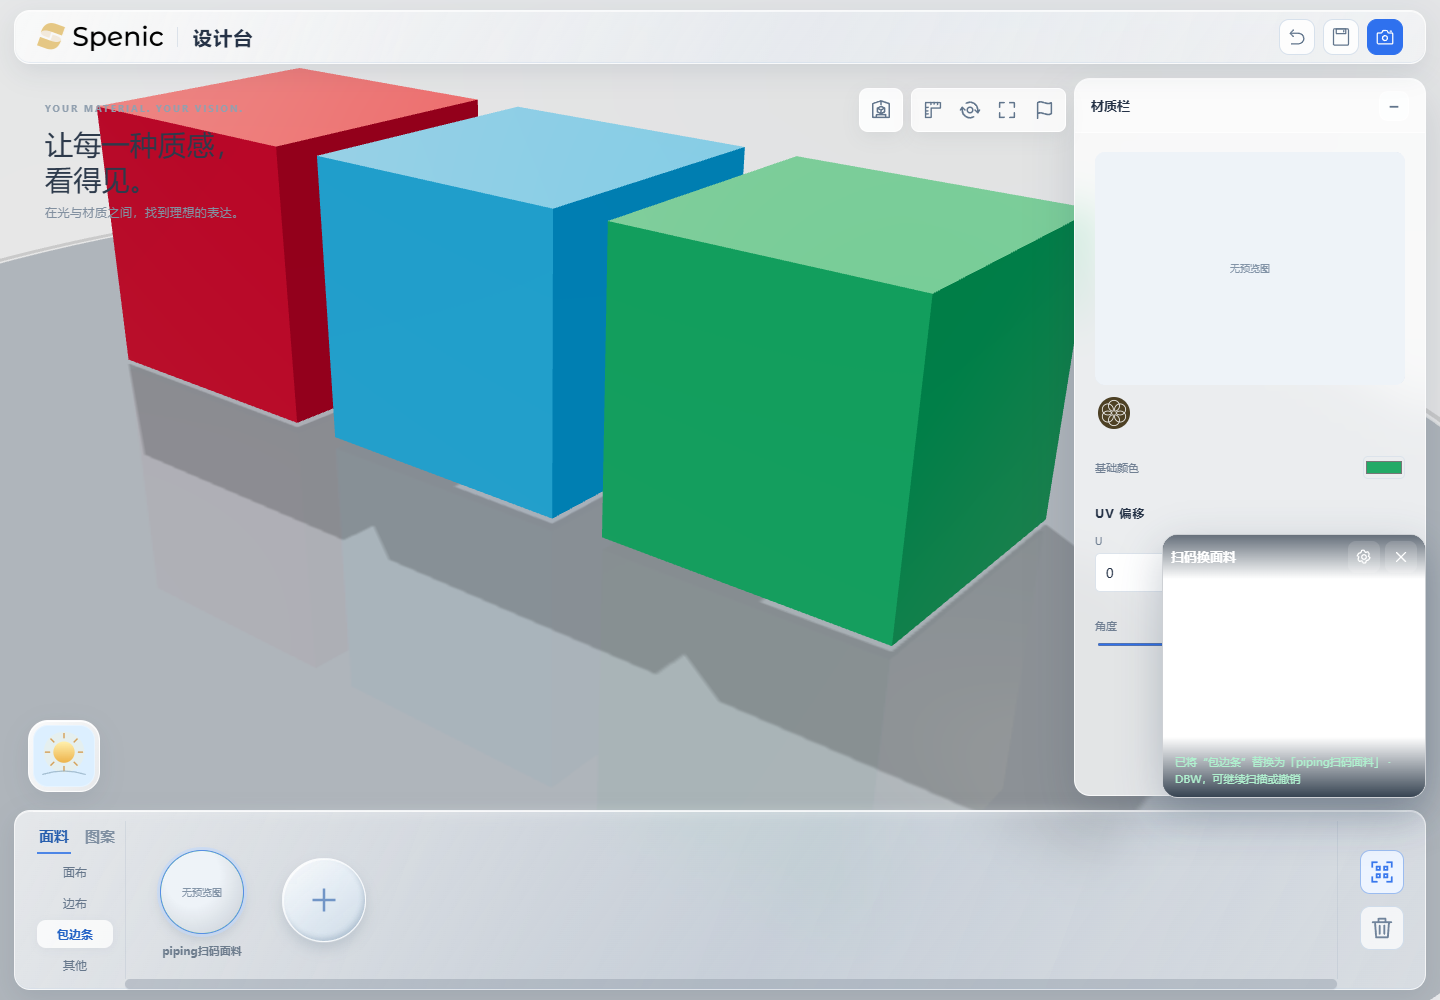
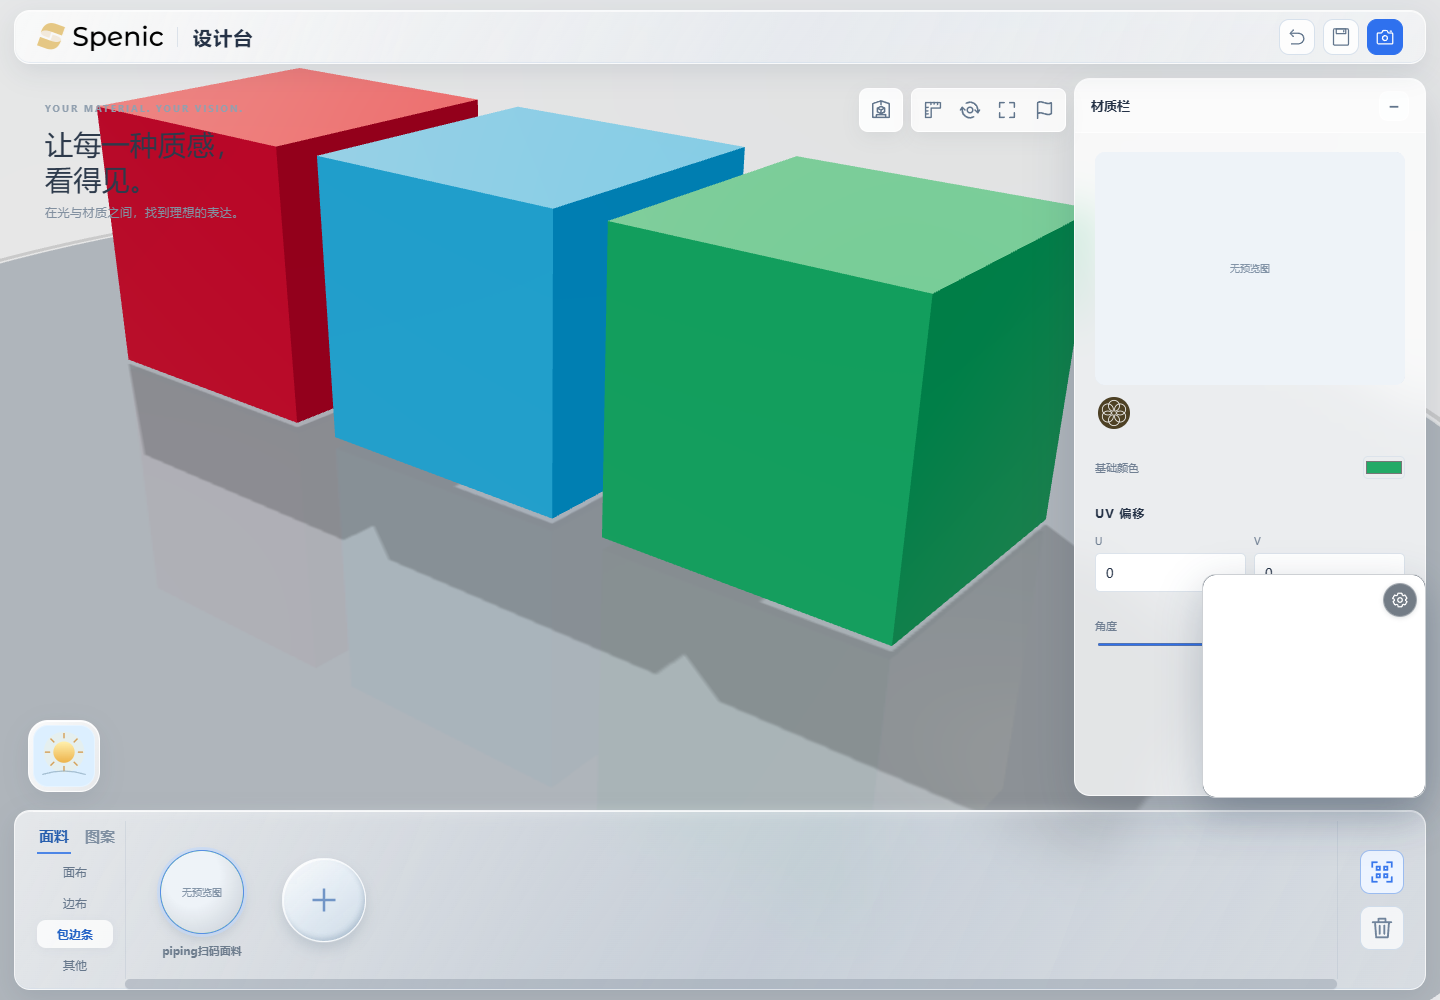
1

Changed region(s): [[0.7812, 0.527, 1.0, 0.806]]

diff --git a/fabric-scan.css b/fabric-scan.css
@@ -1,23 +1,22 @@
 .fabric-identity[hidden],.fabric-identity [hidden],.fabric-scan-dialog [hidden]{display:none!important}
 .fabric-identity{padding:18px 0;border-top:1px solid #dce3e9;margin-top:18px;color:#263442;min-width:0}
 .fabric-identity h3{font-size:15px;margin:0 0 8px}.fabric-identity p{font-size:12px;line-height:1.7;margin:6px 0;color:#607080}.fabric-identity-qr{display:block;width:164px;height:164px;max-width:100%;background:white;border-radius:8px}.fabric-identity-code{display:block;overflow-wrap:anywhere;font-size:11px;margin:8px 0;font-variant-numeric:tabular-nums}.fabric-identity-actions{display:flex;gap:8px;flex-wrap:wrap}.fabric-identity-actions button{border:1px solid #cdd7df;background:#fff;padding:8px 12px;border-radius:8px;color:#263442;cursor:pointer}
-.fabric-scan-dialog{--scan-size:min(264px,calc(100vw - 24px),var(--fabric-scan-space,calc(100dvh - 280px)));box-sizing:border-box;position:fixed;inset:auto var(--fabric-scan-right,14px) var(--fabric-scan-bottom,202px) auto;width:var(--scan-size);max-width:calc(100vw - 24px);max-height:calc(100dvh - 24px);aspect-ratio:1;margin:0;padding:0;overflow:hidden;z-index:25;border:1px solid #ffffffc9;border-radius:16px;background:#142334;color:#fff;box-shadow:0 14px 42px #132c4640;font:13px/1.5 'Microsoft YaHei','Segoe UI',sans-serif}
+.fabric-scan-dialog{--scan-size:min(224px,calc(100vw - 24px),var(--fabric-scan-space,calc(100dvh - 280px)));box-sizing:border-box;position:fixed;inset:auto var(--fabric-scan-right,14px) var(--fabric-scan-bottom,202px) auto;width:var(--scan-size);max-width:calc(100vw - 24px);max-height:calc(100dvh - 24px);aspect-ratio:1;margin:0;padding:0;overflow:hidden;z-index:25;border:1px solid #ffffffc9;border-radius:14px;background:#142334;color:#fff;box-shadow:0 14px 42px #132c4640;font:13px/1.5 'Microsoft YaHei','Segoe UI',sans-serif}
 .fabric-scan-dialog:not([open]){display:none}
-.fabric-scan-heading{position:relative;z-index:2;display:flex;align-items:center;gap:5px;height:44px;padding:5px 8px;background:linear-gradient(#142334a6,#14233400)}
+.fabric-scan-heading{position:relative;z-index:2;display:flex;align-items:center;gap:5px;height:44px;padding:5px 8px}
 .fabric-scan-heading h2{flex:1;min-width:0;margin:0;font-size:13px;line-height:20px;font-weight:600}
-.fabric-scan-dialog .fabric-scan-icon{display:grid;place-items:center;flex:0 0 32px;width:32px;height:32px;padding:7px;border:0;border-radius:8px;background:#ffffff24;color:inherit;cursor:pointer}
+.fabric-scan-dialog:not(.is-settings) .fabric-scan-heading{position:absolute;top:8px;right:8px;height:auto;padding:0}
+.fabric-scan-dialog .fabric-scan-icon{box-sizing:border-box;display:grid;place-items:center;flex:0 0 34px;width:34px;height:34px;padding:7px;border:1px solid #ffffff52;border-radius:50%;background:#16253599;color:inherit;box-shadow:0 1px 5px #08131f26;cursor:pointer}
 .fabric-scan-icon svg{display:block;width:18px;height:18px;fill:none;stroke:currentColor;stroke-width:1.7;stroke-linecap:round;stroke-linejoin:round}
-.fabric-scan-dialog .fabric-scan-icon:hover{background:#ffffff40}
 .fabric-scan-camera-view{position:absolute;inset:0;background:radial-gradient(circle at center,#28455d,#142334)}
 .fabric-scan-video{display:block;width:100%;height:100%;object-fit:cover;object-position:center}
 .fabric-scan-guide{position:absolute;inset:25%;border:1px solid #ffffff66;border-radius:12px;pointer-events:none}
-.fabric-scan-status{position:absolute;inset:auto 0 0;z-index:2;margin:0;padding:16px 12px 10px;min-height:46px;background:linear-gradient(#14233400,#142334d9);font-size:11px;line-height:17px;overflow-wrap:anywhere;color:#edf4fa}
-.fabric-scan-status[data-state=error]{color:#ffd2cc}
-.fabric-scan-status[data-state=success]{color:#b0f1cf}
+.fabric-scan-status{font-size:11px;line-height:17px;overflow-wrap:anywhere}
+.fabric-scan-dialog:not(.is-settings) .fabric-scan-heading h2,.fabric-scan-dialog:not(.is-settings) .fabric-scan-status{position:absolute;width:1px;height:1px;padding:0;margin:-1px;overflow:hidden;clip-path:inset(50%);white-space:nowrap;border:0}
 .fabric-scan-dialog.is-settings{width:min(320px,calc(100vw - 24px));aspect-ratio:auto;max-height:calc(100dvh - var(--fabric-scan-bottom,202px) - 12px);overflow:auto;background:#f7f9fb;color:#263442}
 .fabric-scan-dialog.is-settings .fabric-scan-heading{height:48px;background:#ffffffc9;border-bottom:1px solid #dce5ed}
-.fabric-scan-dialog.is-settings .fabric-scan-icon{background:transparent;color:#61758c}
-.fabric-scan-dialog.is-settings .fabric-scan-icon:hover{background:#e5edf4}
+.fabric-scan-dialog.is-settings .fabric-scan-icon{border-color:transparent;background:transparent;color:#61758c;box-shadow:none}
+@media(hover:hover) and (pointer:fine){.fabric-scan-dialog .fabric-scan-icon:hover{background:#162535cc}.fabric-scan-dialog.is-settings .fabric-scan-icon:hover{background:#e5edf4}}
 .fabric-scan-settings-page{padding:4px 16px 0}
 .fabric-scan-settings-page label{display:block;margin:14px 0 6px;font-size:12px;color:#627586}
 .fabric-scan-settings-page form{margin:18px 0 0;border-top:1px solid #dce5ed}
@@ -36,5 +35,5 @@
 .fabric-scan-trigger svg{display:block;width:26px;height:26px;fill:none;stroke:currentColor;stroke-width:1.6}
 .dock-delete-tools .fabric-scan-trigger:hover,.dock-delete-tools .fabric-scan-trigger[aria-expanded=true]{background:#edf4ff;color:#3978ed;border-color:#9bbcf0}
 .fabric-identity button:active,.fabric-scan-dialog button:active,.fabric-scan-trigger:active{transform:scale(.98)}
-@media(max-width:760px){.dock-delete-tools{gap:10px}.dock-delete-tools .fabric-scan-trigger{width:40px;height:40px;flex-basis:40px}.fabric-scan-dialog{--scan-size:min(248px,calc(100vw - 24px),var(--fabric-scan-space,calc(100dvh - 270px)))}}
+@media(max-width:760px){.dock-delete-tools{gap:10px}.dock-delete-tools .fabric-scan-trigger{width:40px;height:40px;flex-basis:40px}.fabric-scan-dialog{--scan-size:min(216px,calc(100vw - 24px),var(--fabric-scan-space,calc(100dvh - 270px)))}}
 @media(max-width:520px){.fabric-identity-qr{width:148px;height:148px}}

diff --git a/shared/fabric-scanner.js b/shared/fabric-scanner.js
@@ -9,8 +9,7 @@ export function mountFabricScanner({ button, apply }) {
     <header class="fabric-scan-heading">
       <button type="button" class="fabric-scan-back fabric-scan-icon" aria-label="返回扫码" hidden><svg viewBox="0 0 24 24" aria-hidden="true"><path d="m14 6-6 6 6 6"/></svg></button>
       <h2 id="fabricScanTitle">扫码换面料</h2>
-      <button type="button" class="fabric-scan-settings fabric-scan-icon" aria-label="扫码设置" title="扫码设置" aria-controls="fabricScanSettings" aria-expanded="false"><svg viewBox="0 0 24 24" aria-hidden="true"><path d="m9 3-1 3-3 1-2 3 2 2-1 3 2 3 3-1 2 3h3l1-3 3-1 2-3-2-2 1-3-2-3-3 1-2-3z"/><circle cx="12" cy="12" r="3"/></svg></button>
-      <button type="button" class="fabric-scan-close fabric-scan-icon" aria-label="关闭扫码" title="关闭扫码"><svg viewBox="0 0 24 24" aria-hidden="true"><path d="m6 6 12 12M18 6 6 18"/></svg></button>
+      <button type="button" class="fabric-scan-settings fabric-scan-icon" aria-label="扫码设置" title="扫码设置" aria-controls="fabricScanSettings" aria-expanded="false"><svg viewBox="0 0 24 24" aria-hidden="true"><path d="M9.5 3h5l.6 2.4 1.3.8 2.4-.7 2.5 4.3-1.8 1.5v1.4l1.8 1.5-2.5 4.3-2.4-.7-1.3.8-.6 2.4h-5l-.6-2.4-1.3-.8-2.4.7-2.5-4.3 1.8-1.5v-1.4L2.2 9.8l2.5-4.3 2.4.7 1.3-.8z"/><circle cx="12" cy="12" r="3"/></svg></button>
     </header>
     <div class="fabric-scan-camera-view">
       <video class="fabric-scan-video" muted playsinline autoplay aria-label="二维码扫描画面"></video>
@@ -173,7 +172,6 @@ export function mountFabricScanner({ button, apply }) {
     active = true; session++; position(); showSettings(false, false); dialog.show(); button.setAttribute('aria-expanded', 'true');
     settingsButton.focus({ preventScroll: true }); controls(); void startCamera();
   };
-  dialog.querySelector('.fabric-scan-close').onclick = dismiss;
   dialog.addEventListener('cancel', event => { event.preventDefault(); dismiss(); });
   dialog.addEventListener('close', () => { if (!dialog.open) close(); });
   document.addEventListener('keydown', event => {

diff --git a/shared/qr-decoder.js b/shared/qr-decoder.js
@@ -9,15 +9,25 @@ export async function createQrDecoder() {
     if (globalThis.BarcodeDetector && (await BarcodeDetector.getSupportedFormats()).includes('qr_code')) native = new BarcodeDetector({ formats: ['qr_code'] });
   } catch {}
   let reader;
-  if (!native) { const library = await zxing(); reader = new library.BrowserQRCodeReader(); }
+  const ensureReader = async () => {
+    if (!reader) { const library = await zxing(); reader = new library.BrowserQRCodeReader(); }
+    return reader;
+  };
   return {
     async decode(source) {
       if (native) {
-        try { return (await native.detect(source))[0]?.rawValue || null; }
-        catch { native = null; const library = await zxing(); reader = new library.BrowserQRCodeReader(); }
+        try {
+          const value = (await native.detect(source)).find(result => result?.rawValue)?.rawValue;
+          if (value) return value;
+        } catch { native = null; }
       }
+      await ensureReader();
       const library = globalThis.ZXing;
-      const bitmap = reader.createBinaryBitmap(source);
+      // BrowserQRCodeReader only captures image/video elements; camera crops
+      // are canvases and must be read directly to preserve their dimensions.
+      const bitmap = source instanceof HTMLCanvasElement
+        ? new library.BinaryBitmap(new library.HybridBinarizer(new library.HTMLCanvasElementLuminanceSource(source)))
+        : reader.createBinaryBitmap(source);
       try { return reader.decodeBitmap(bitmap).getText(); }
       catch (error) {
         if (error instanceof library.NotFoundException || error instanceof library.ChecksumException || error instanceof library.FormatException) {

diff --git a/使用说明.md b/使用说明.md
@@ -38,7 +38,7 @@
 
 每个具体色号有独立身份码；编辑同一面料保留原码，创建副本生成新码。扫描时读取最新保存的面料；旧资产不迁移、不补发身份码。无需新增数据库表或执行 SQL 迁移。
 
-设计台材质栏右侧的二维码图标打开方形相机窗口，并直接申请摄像头权限。窗口中的设置按钮进入二级页面，可选择或启停摄像头、使用扫码枪或手动输入身份码后按回车；返回后继续相机扫码。USB / 蓝牙扫码枪使用支持二维码的 HID 键盘模式，设置扫描完成后发送回车；系统完成设备连接，无需在网页中配对。
+设计台材质栏右侧的二维码图标打开小型方形相机窗口，并直接申请摄像头权限；再次点击该图标或按 Esc 关闭。主窗口仅保留相机画面和右上角的设置按钮，点击设置进入二级页面，可查看扫码状态、选择或启停摄像头、使用扫码枪或手动输入身份码后按回车；返回后继续相机扫码。USB / 蓝牙扫码枪使用支持二维码的 HID 键盘模式，设置扫描完成后发送回车；系统完成设备连接，无需在网页中配对。
 
 扫码按面料本身的分类替换模型全部已配置的对应部位，例如“边布”面料只替换模型配置的“边布”，与底栏当前分类无关。没有匹配目标时会提示先配置模型。每次替换可撤销，并随项目保存和恢复。
 
